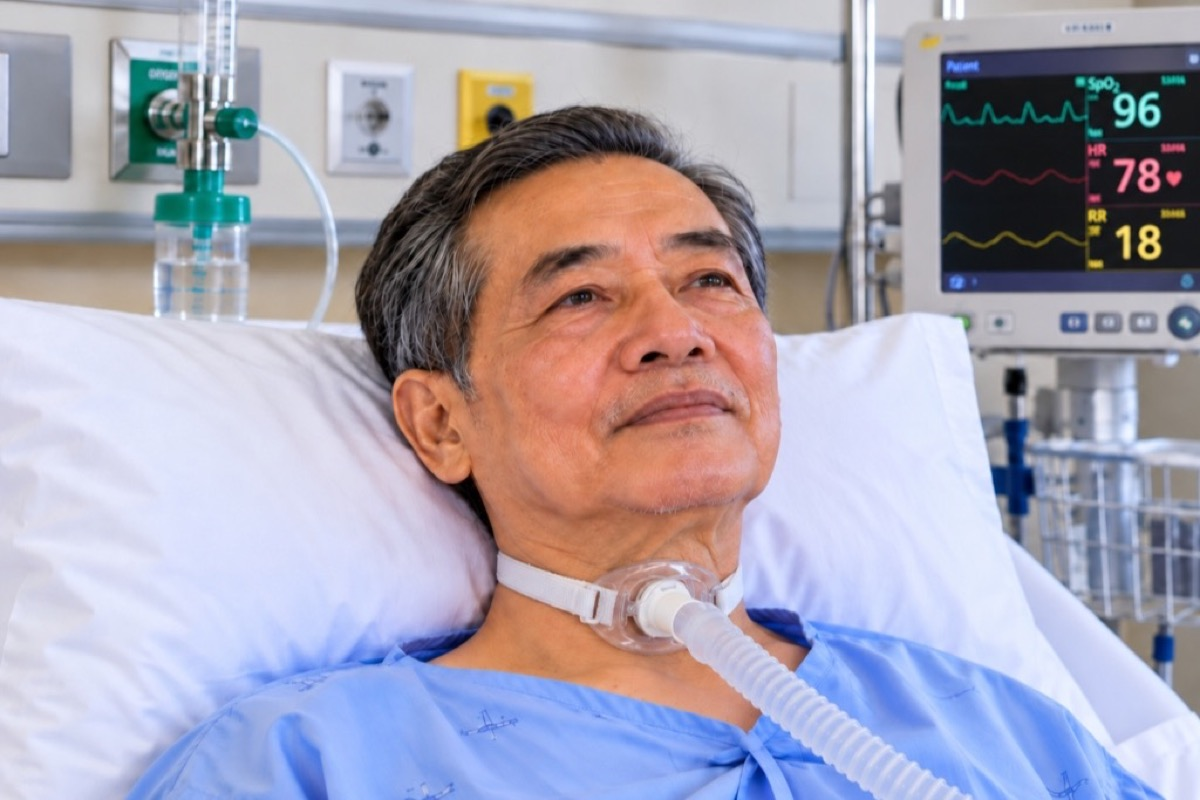
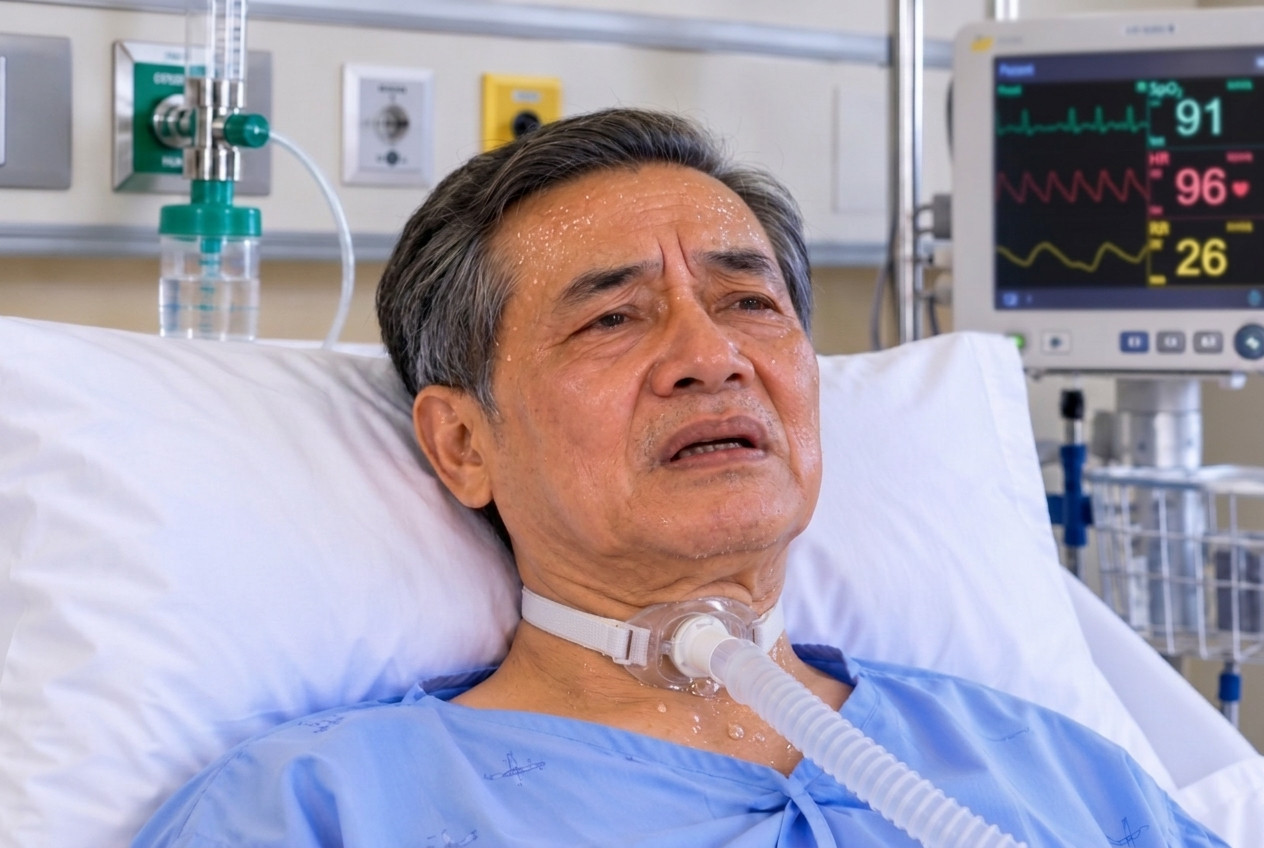
Update Mr. Somchai patient portrait to show acute respiratory distress and fatigue

diff --git a/app/templates/mission_play.html b/app/templates/mission_play.html
@@ -33,7 +33,7 @@
         <!-- Patient Portrait Thumbnail -->
         <div class="w-12 h-12 sm:w-14 sm:h-14 rounded-xl overflow-hidden bg-slate-100 border border-[#DCEAF7] shrink-0 shadow-2xs">
           {% if mission.room_number == '501' or 'สมชาย' in scenario.patient_name %}
-          <img src="{{ url_for('static', filename='images/patients/patient_somchai.png') }}?v=6" alt="{{ scenario.patient_name }}" class="w-full h-full object-cover object-top">
+          <img src="{{ url_for('static', filename='images/patients/patient_somchai.png') }}?v=7" alt="{{ scenario.patient_name }}" class="w-full h-full object-cover object-top">
           {% elif mission.room_number == '502' or 'อนงค์' in scenario.patient_name %}
           <img src="{{ url_for('static', filename='images/patients/patient_anong.png') }}" alt="{{ scenario.patient_name }}" class="w-full h-full object-cover object-top">
           {% elif mission.room_number == '503' or 'มะลิ' in scenario.patient_name %}
@@ -41,7 +41,7 @@
           {% elif mission.room_number == '504' or 'ประเสริฐ' in scenario.patient_name %}
           <img src="{{ url_for('static', filename='images/patients/patient_prasert.png') }}" alt="{{ scenario.patient_name }}" class="w-full h-full object-cover object-top">
           {% else %}
-          <img src="{{ url_for('static', filename='images/patients/patient_somchai.png') }}?v=6" alt="Patient" class="w-full h-full object-cover">
+          <img src="{{ url_for('static', filename='images/patients/patient_somchai.png') }}?v=7" alt="Patient" class="w-full h-full object-cover">
           {% endif %}
         </div>
 
@@ -338,7 +338,7 @@
             {% if scenario.patient_name and 'อนงค์' in scenario.patient_name %}
             <img src="{{ url_for('static', filename='images/patients/patient_anong.png') }}" alt="{{ scenario.patient_name }}" class="w-full h-full object-cover">
             {% elif scenario.patient_name and 'สมชาย' in scenario.patient_name %}
-            <img src="{{ url_for('static', filename='images/patients/patient_somchai.png') }}?v=6" alt="{{ scenario.patient_name }}" class="w-full h-full object-cover">
+            <img src="{{ url_for('static', filename='images/patients/patient_somchai.png') }}?v=7" alt="{{ scenario.patient_name }}" class="w-full h-full object-cover">
             {% elif scenario.patient_name and 'มะลิ' in scenario.patient_name %}
             <img src="{{ url_for('static', filename='images/patients/patient_mali.png') }}" alt="{{ scenario.patient_name }}" class="w-full h-full object-cover">
             {% elif scenario.patient_name and 'ประเสริฐ' in scenario.patient_name %}

diff --git a/app/templates/ward.html b/app/templates/ward.html
@@ -213,8 +213,8 @@
             <!-- Patient Image Anchor (Fixed Uniform 3:2 Ratio) -->
             <div class="relative aspect-[3/2] w-full rounded-2xl overflow-hidden bg-slate-100 border border-[#DCEAF7] group-hover:border-sky-200 transition shrink-0">
               <img
-                src="{{ url_for('static', filename='images/patients/patient_somchai.png') }}?v=6"
-                onerror="this.onerror=null; this.src='{{ url_for('static', filename='images/patients/patient_somchai.jpg') }}?v=6';"
+                src="{{ url_for('static', filename='images/patients/patient_somchai.png') }}?v=7"
+                onerror="this.onerror=null; this.src='{{ url_for('static', filename='images/patients/patient_somchai.jpg') }}?v=7';"
                 alt="นายสมชาย — ห้อง 501"
                 class="w-full h-full object-cover object-center group-hover:scale-102 transition duration-300"
                 loading="lazy"
